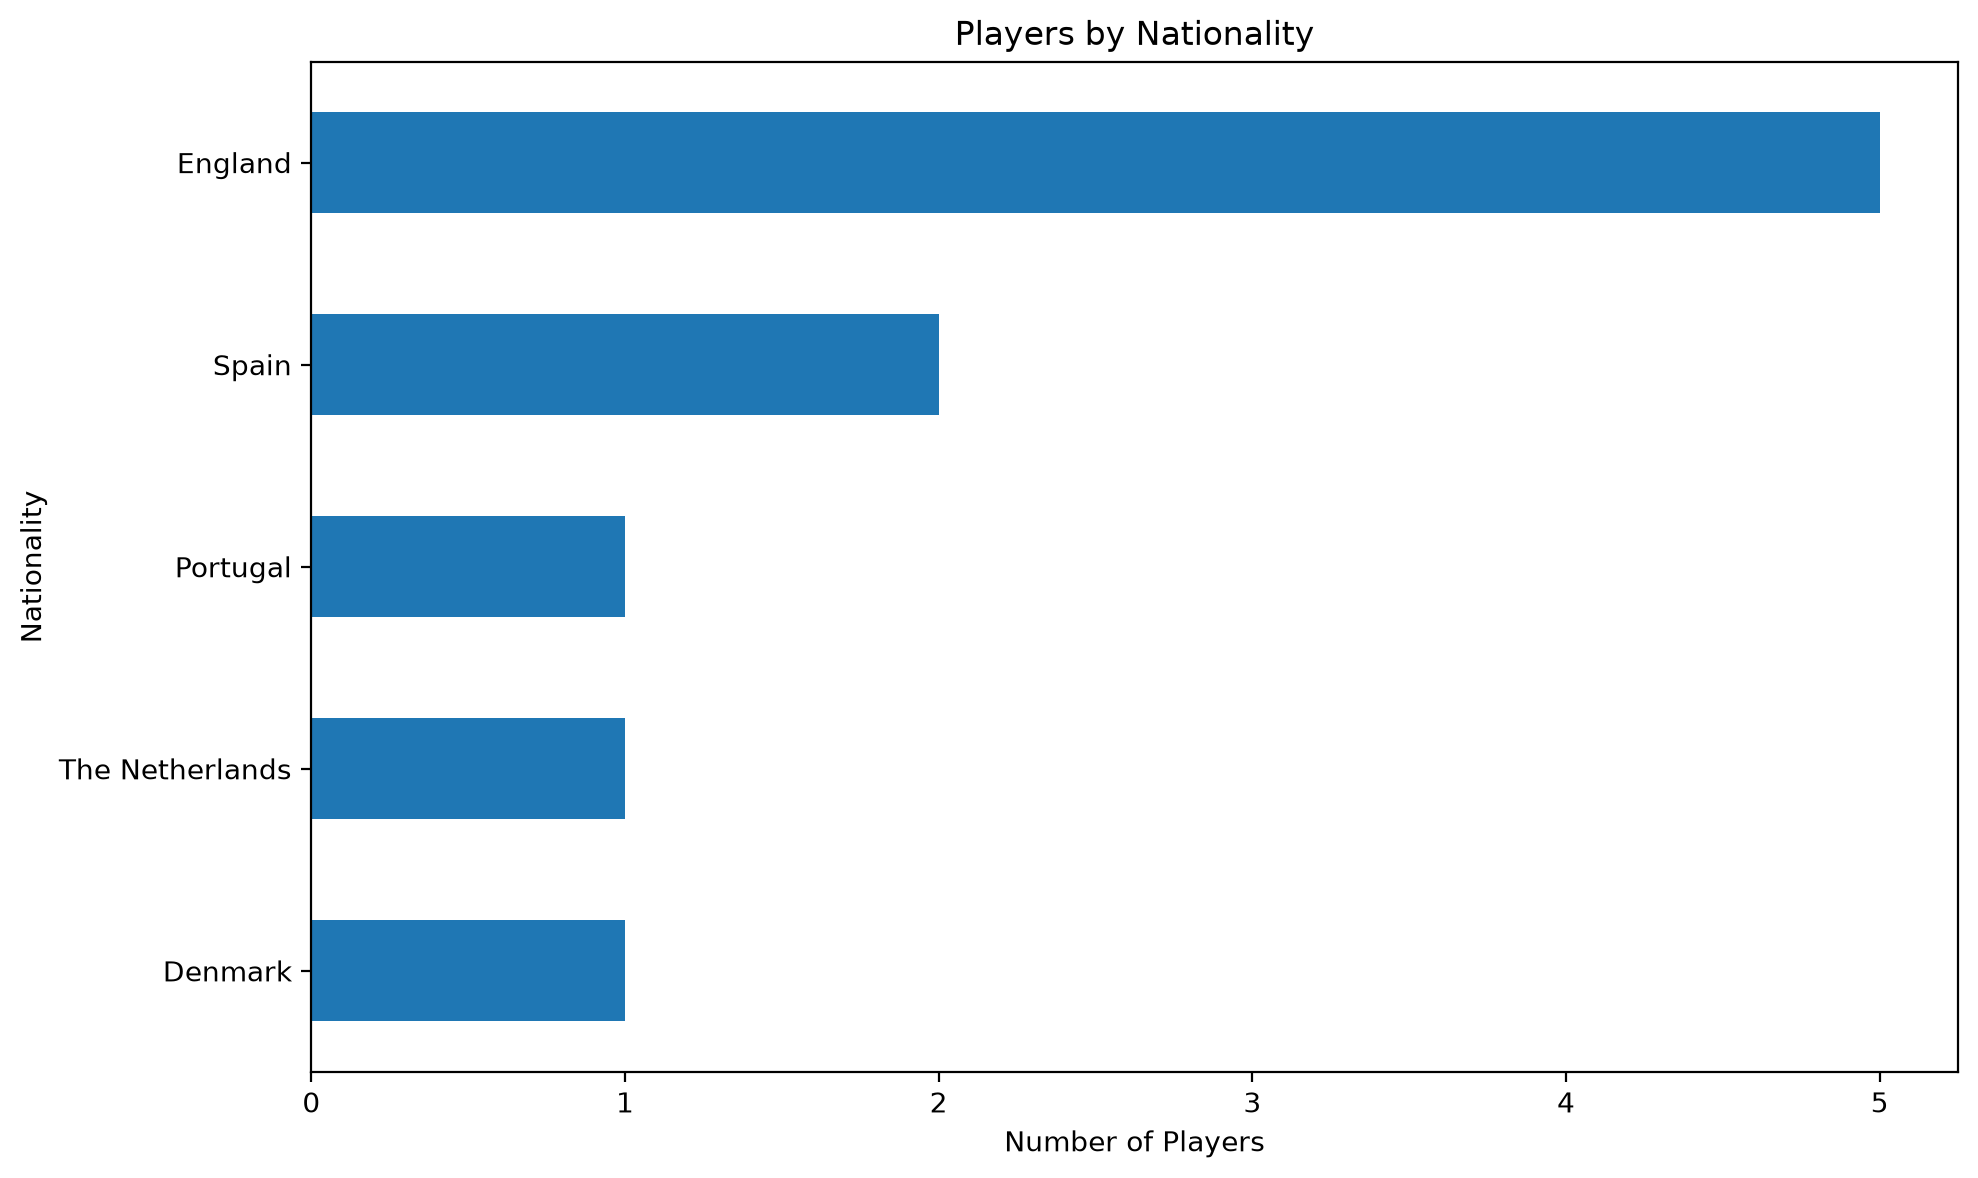
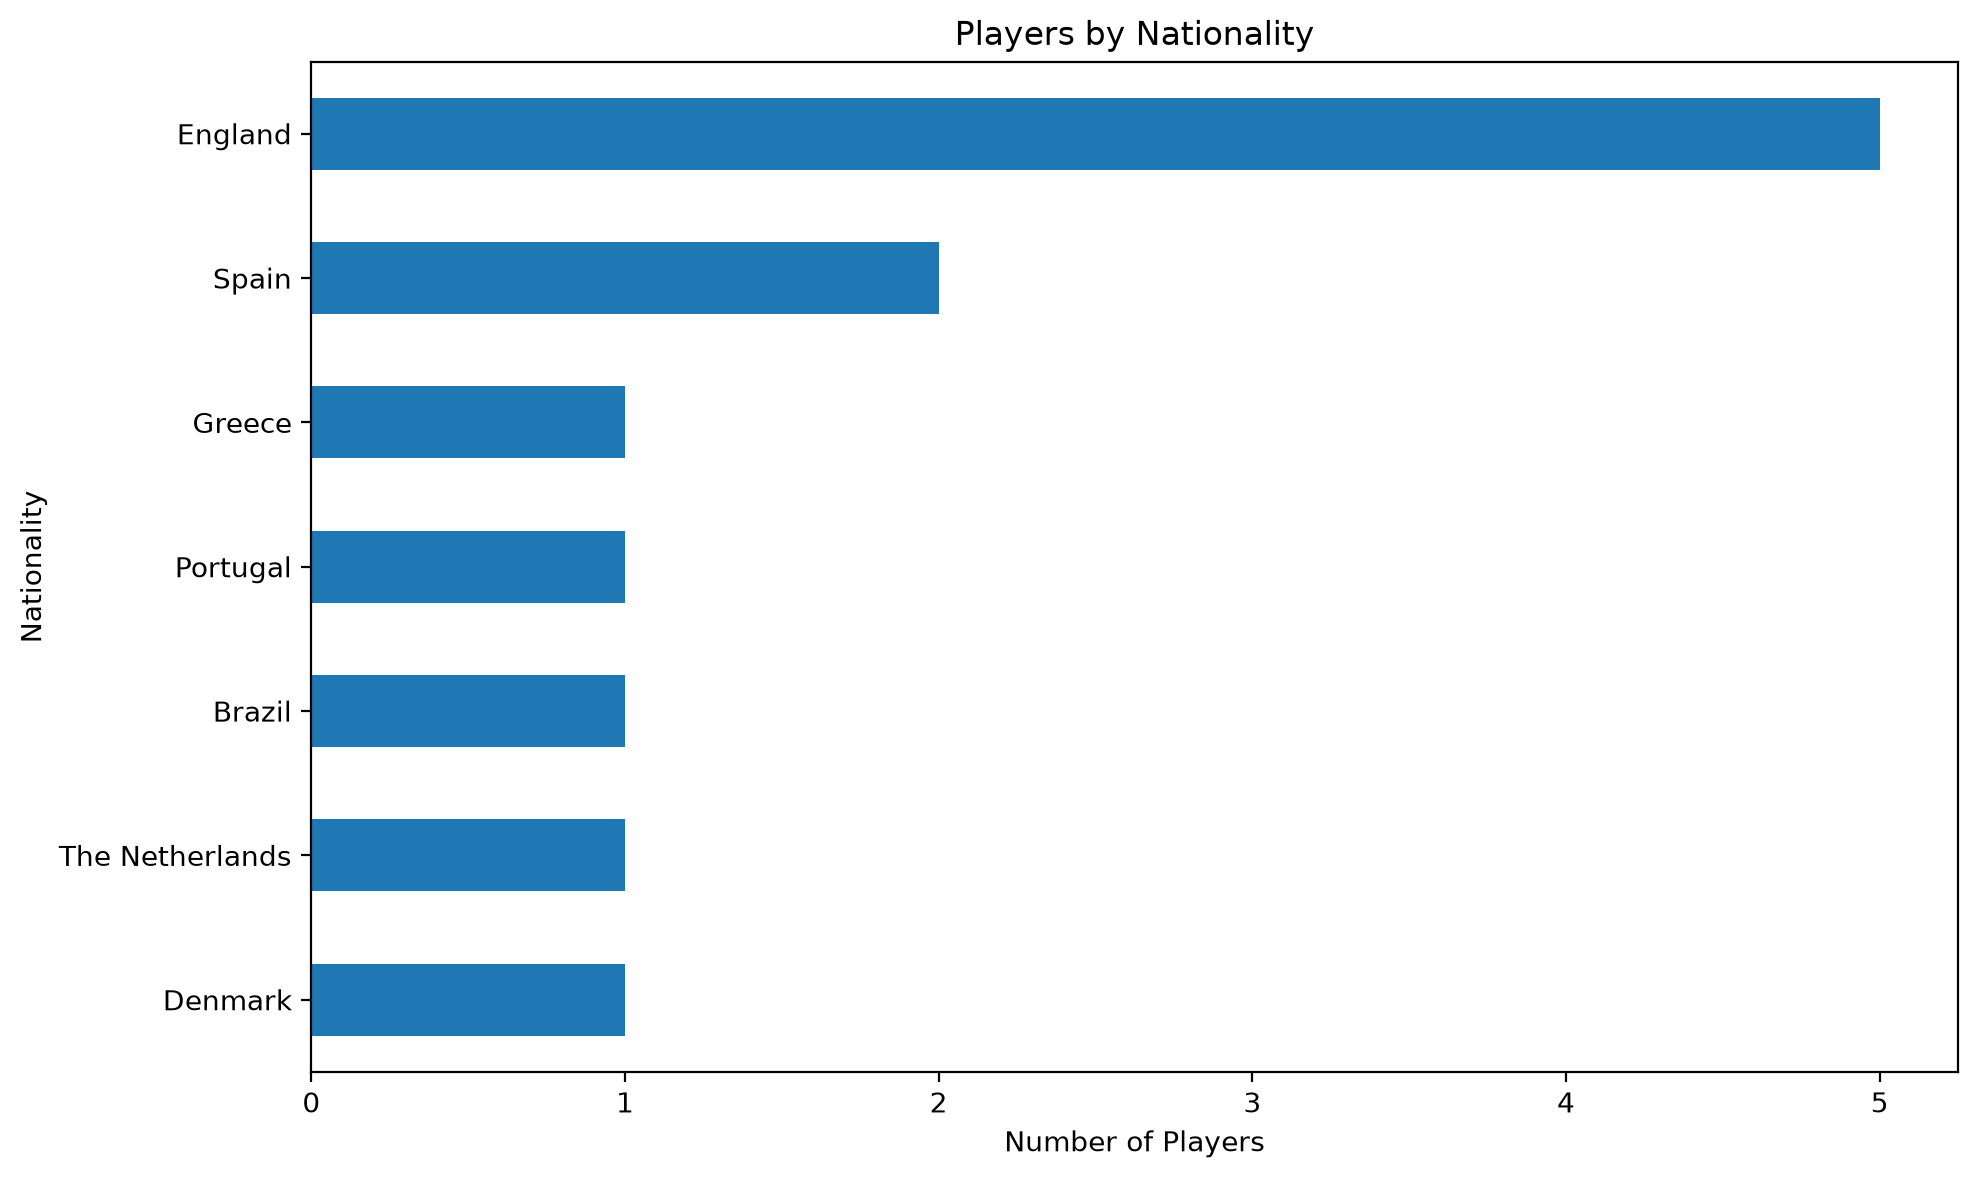
Complete analytics and project documentation

diff --git a/README.md b/README.md
@@ -1,36 +1,221 @@
-# St. Louis Sports Dashboard
+# St. Louis Sports Insight Dashboard
 
-## Purpose
+## Overview
 
-This project is to help me learn Python by building a sports analytics dashboard that retrieves sports data from APIs, stores it in SQLite, and will eventually display analytics and visualizations.
+The St. Louis Sports Insight Dashboard is a modular Python application for collecting, storing, analyzing, and interpreting sports data.
 
-## Technologies
+The system combines external API data, a local SQLite database, statistical analysis, visualization, and AI-generated scouting reports into a single workflow.
+
+## Objectives
+
+The project is built around practical engineering problems:
+
+-   Collect structured data from external APIs
+-   Design and maintain a relational data layer
+-   Transform raw data into useful analytical information
+-   Generate visual representations of sports data
+-   Apply AI to structured scouting analysis
+-   Build modular Python components that can be tested and extended independently
+-   Maintain a documented development history with Git
+
+
+
+## Technology
 
 - Python
 - Requests
 - SQLite
+- Pandas
+- Matplotlib
+- OpenAI API
+- python-dotenv
 - Git
 
-## Current Features
 
-- Fetch team data from TheSportsDB API
-- Fetch event data from TheSportsDB API
-- Store teams in SQLite
-- Store events in SQLite
-- View stored records
+## System Architecture
+
+```text
+TheSportsDB API
+       │
+       ▼
+Data Collection
+       │
+       ▼
+SQLite Database
+       │
+       ├── Teams
+       ├── Players
+       ├── Events
+       └── AI_Reports
+              │
+       ┌──────┴──────┐
+       ▼             ▼
+   Analytics      AI Reports
+       │             │
+       ▼             ▼
+Visualization     Dashboard
+       │
+       ▼
+     assets/
+```
+
+## Current Capabilities
+
+### Data Collection
+
+The application retrieves sports data from TheSportsDB, including:
+
+- Teams
+- Players
+- Events
+- Leagues
+- Venues
+- Player positions
+- Player nationalities
+
+
+
+
+### Database
+
+SQLite provides the local persistence layer.
+
+Current tables:
+
+| Table        | Purpose                                 |
+| ------------ | --------------------------------------- |
+| `Teams`      | Stores team information |
+| `Players`    | Stores player information and API identifiers |
+| `Events`     | Stores scheduled and completed sporting events |
+| `AI_Reports` | Stores generated scouting reports |
+
+Player and event records use API-provided identifiers to maintain stable records and reduce duplicate entries.
+
+### Analytics
+
+The analytics layer uses Pandas to query and transform database records and Matplotlib to produce visualizations.
+
+Current outputs include:
+
+-   Players by position
+-   Players by nationality
+-   Events by league
+-   Sports events over time
+
+Generated visualizations are stored in `assets/`.
+
+### AI Scouting
+
+The application can generate structured scouting reports containing:
+
+-  Strengths
+-  Weaknesses
+-  Overall evaluation
+-  Report metadata
+
+Reports are persisted in the `AI_Reports` table in SQLite and can be retrieved through the dashboard.
+
+### Dashboard
+
+`dashboard.py` provides the primary interactive console interface for accessing the project's data and AI functionality.
 
 ## Project Structure
 
-api_fetch.py
-database_teams.py
-database_events.py
-data_table.py
-view_database.py
-sports.db
+```text
+st-louis-sports-dashboard/
+│
+├── ai_reports.py
+├── analytics.py
+├── api_fetch.py
+├── dashboard.py
+├── database_events.py
+├── database_players.py
+├── database_teams.py
+├── data_table.py
+├── events_fetch.py
+│
+├── assets/
+│   ├── events_by_league.png
+│   ├── events_over_time.png
+│   ├── nationality_distribution.png
+│   └── position_distribution.png
+│
+├── Engineering_Notebook.md
+├── README.md
+├── requirements.txt
+├── .gitignore
+└── sports.db
+```
 
-## Next Phase
+## Data Pipeline
 
-- Store multiple teams
-- Improve database relationships
-- Learn SQL queries
-- Build dashboard visualizations
+The core workflow is:
+
+```text
+API
+ ↓
+JSON
+ ↓
+SQLite
+ ↓
+SQL Queries
+ ↓
+Pandas
+ ↓
+Analysis
+ ↓
+Matplotlib / AI
+ ↓
+Dashboard / Assets
+```
+
+This separation allows the data layer, analytical layer, and presentation layer to evolve independently.
+
+## Running the Application
+
+### Install Dependencies
+
+```powershell
+pip install -r requirements.txt
+```
+
+### Run the Dashboard
+
+```powershell
+python dashboard.py
+```
+
+### Run the Analytics Pipeline
+
+```powershell
+python analytics.py
+```
+
+The analytics pipeline generates the current visualization assets in `assets/`.
+
+## Engineering Practices
+
+The project is developed incrementally with Git. Individual commits represent meaningful changes to the application's architecture, data layer, analytics, and documentation.
+
+The `Engineering_Notebook.md` file records the reasoning and development process behind the implementation.
+
+## Development Roadmap
+
+Future work includes:
+
+- Expand sports and league coverage
+- Improve relational database relationships
+- Increase data volume and refresh capabilities
+- Add more advanced SQL analysis
+- Integrate analytics directly into the dashboard
+- Expand AI scouting capabilities
+- Improve validation and error handling
+- Add automated testing
+- Improve application presentation
+- Automate recurring data collection
+
+## Status
+
+The project currently has a functioning API → SQLite → analytics → visualization pipeline, an interactive dashboard, and persisted AI scouting reports.
+
+The remaining work is focused on integration, robustness, testing, and refinement.
